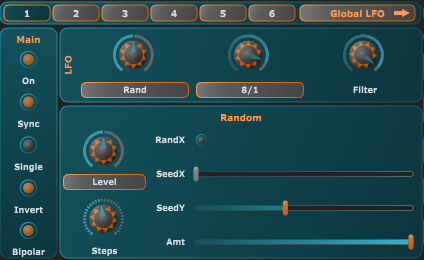
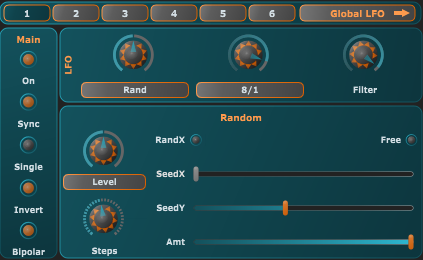
free-running rnd lfo

diff --git a/MANUAL.md b/MANUAL.md
@@ -329,6 +329,7 @@ bipolar and inverted modes, one-shot option and smoothing filter.
         - SeedY: controls the level at the beginning of a new step.
         - Amt: controls next step level relative to current step level.
         - RandX: allows control of the horizontal seed. If disabled, each section has equal length.
+        - Free: puts the random generator into free-running mode, i.e., do not reset the seed values at cycle end.
         - SeedX: a single cycle always has step count equal to the steps parameter, but if RandX is enabled, relative section length may be varied using this parameter.
 
 ## CV matrix
